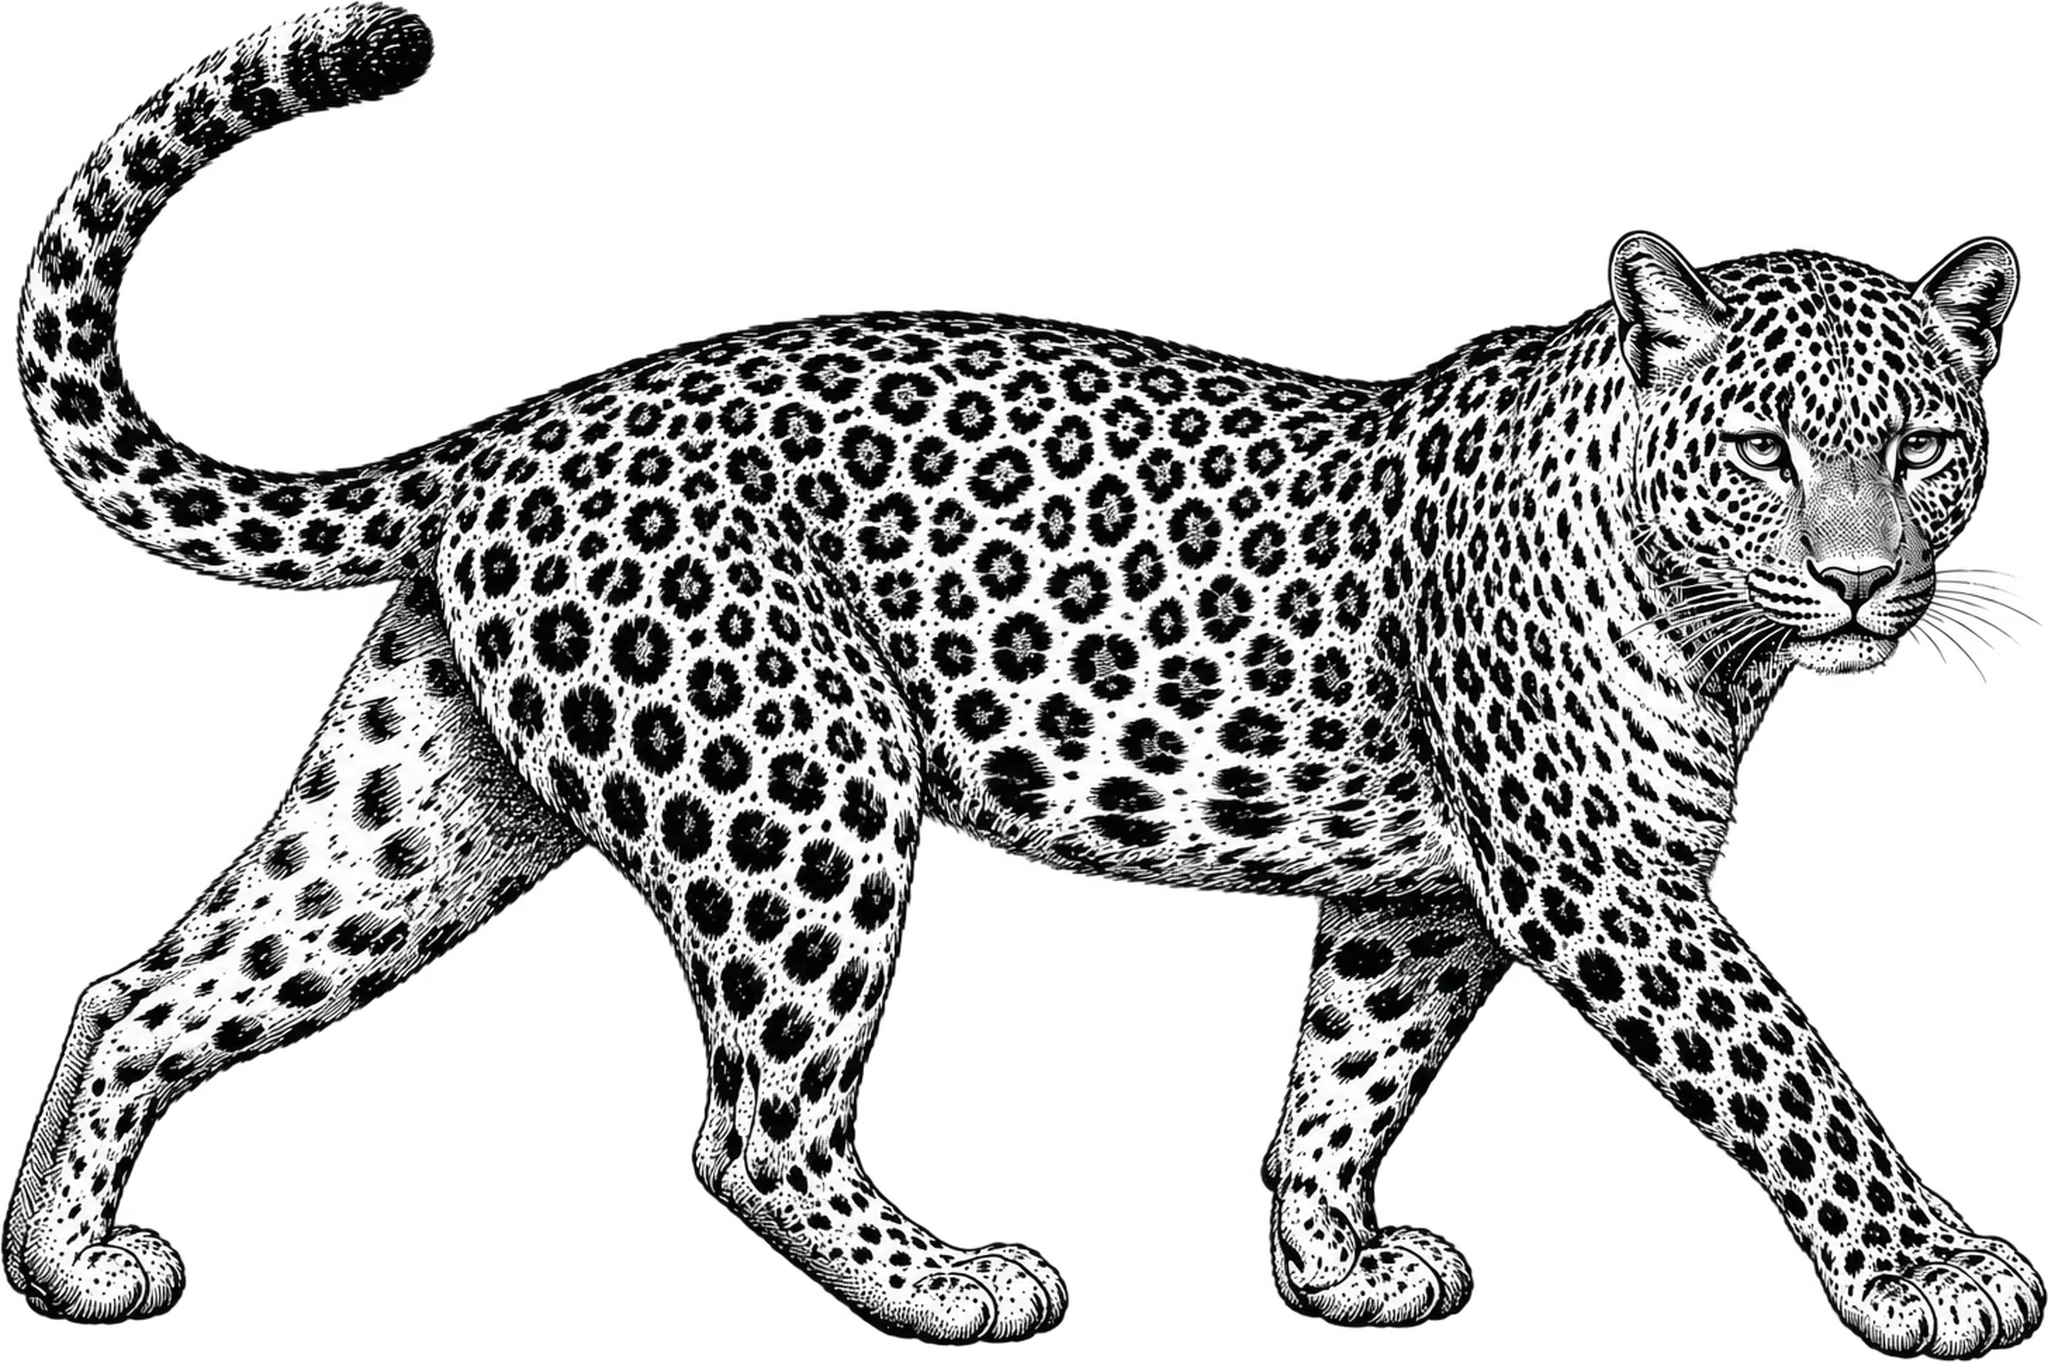
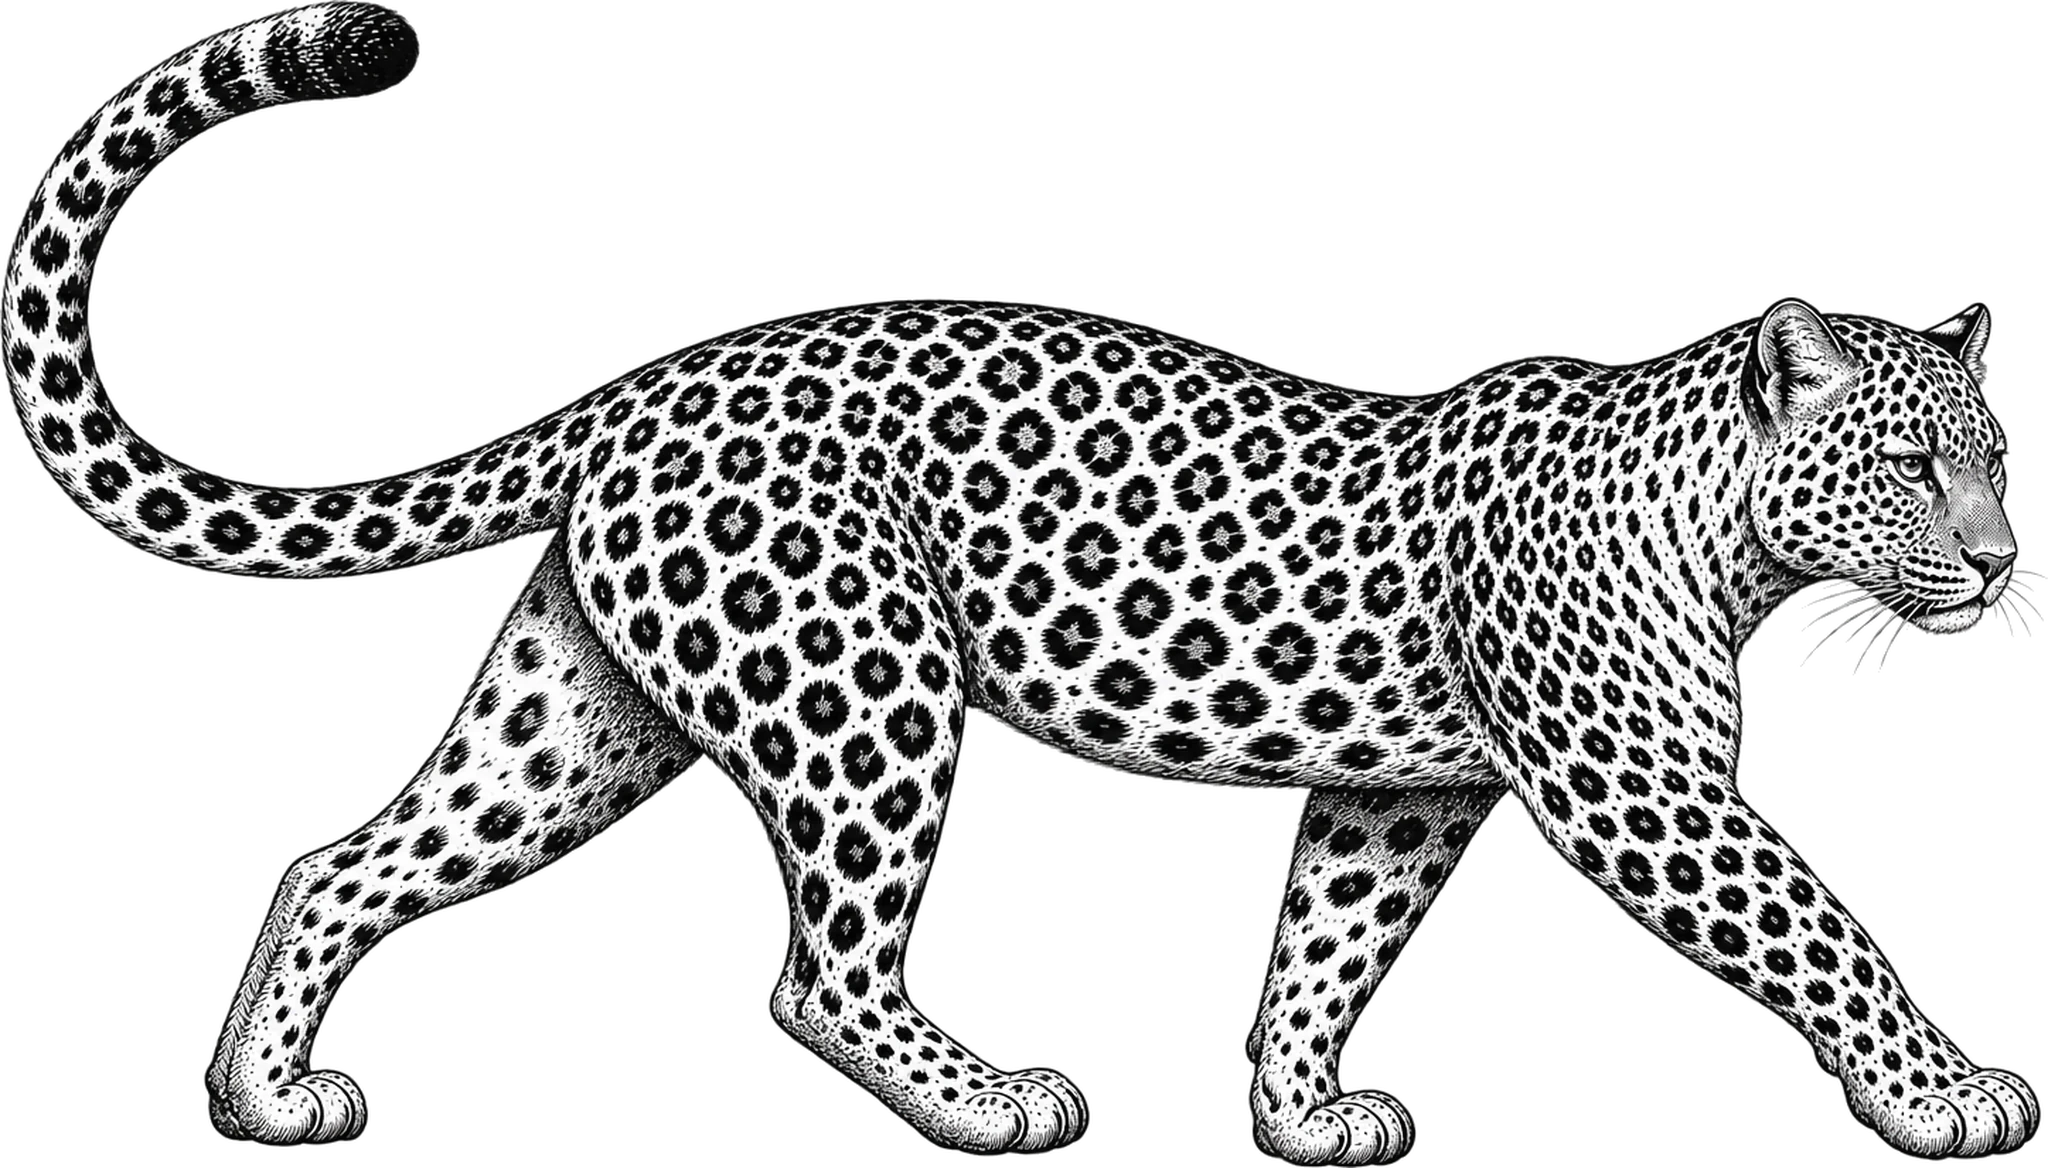
Segunda lámina: el leopardo de perfil hacia adelante
Reemplaza a la primera, que tenía la cabeza vuelta a cámara. Esta es el
perfil que pedía el brief y además es más ancha (1.75 contra 1.50), así que
en la portada atraviesa mejor la página: 720 px contra 617 al mismo alto.
La primera queda en el commit 3e57fb3.

Venía con el resplandor del fondo horneado en el RGB de píxeles
transparentes, y 25 000 de ellos con alfa entre 1 y 40 — invisible sobre
negro y un halo gris sobre marfil. Se pone a cero por debajo de 30; por
encima es antialias de verdad y se respeta. Después, recorte a la tinta y
los tres anchos a q90, que ahora pesan menos que los de antes.

Claude-Session: https://claude.ai/code/session_016srLUpyFhh4sh45D3bDHMM

diff --git a/capotte.html b/capotte.html
@@ -1211,7 +1211,7 @@ function montarLaminas(raiz){
    ════════════════════════════════════════════════════════════════════ */
 const HAY_LEOPARDO = true;
 
-function leopardo({ sizes = '100vw', clase = '', ancho = 1456, alto = 968,
+function leopardo({ sizes = '100vw', clase = '', ancho = 1447, alto = 825,
                     carga = 'lazy' } = {}){
   if (!HAY_LEOPARDO) return '';
   return `<img class="leo ${clase}" alt="Leopardo caminando de perfil, ilustración de la casa"

diff --git a/CLAUDE.md b/CLAUDE.md
@@ -34,6 +34,14 @@ es el sitio, porque mantener las dos cuesta el doble.
   que el borde de la imagen es el borde del animal y colocarla no es adivinar.
   WebP con pérdida a q90: sin pérdida pesaba 1 MB y a q90 la trama del grabado
   aguanta el 100 % — verificado sobre la cabeza, que es lo más fino.
+  Es la **segunda lámina**: la primera tenía la cabeza vuelta a cámara y esta va
+  de perfil hacia adelante, que es lo que pedía el brief. La primera está en el
+  commit `3e57fb3` si alguna vez hace falta una mirada de frente.
+  ⚠ **Ojo con el alfa bajo.** Esta venía con el resplandor del fondo horneado
+  en el RGB de píxeles transparentes, y 25 000 de ellos tenían alfa 1–40:
+  invisible sobre negro y un halo gris sobre marfil. Se pone a cero por debajo
+  de 30; por encima es antialias de verdad. Revisar esto en cualquier lámina
+  nueva antes de darla por buena.
   ⚠ **No sustituirla por otra, no redibujarla y no usar imágenes de animales
   genéricas.** Va en la portada, en la sección del leopardo y como firma tenue
   del pie. En la ficha de producto no va: ahí manda la pieza.
